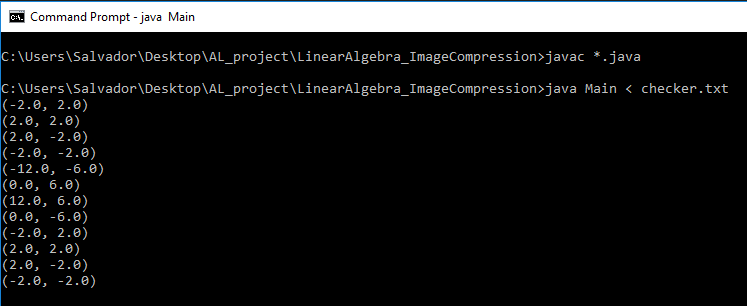
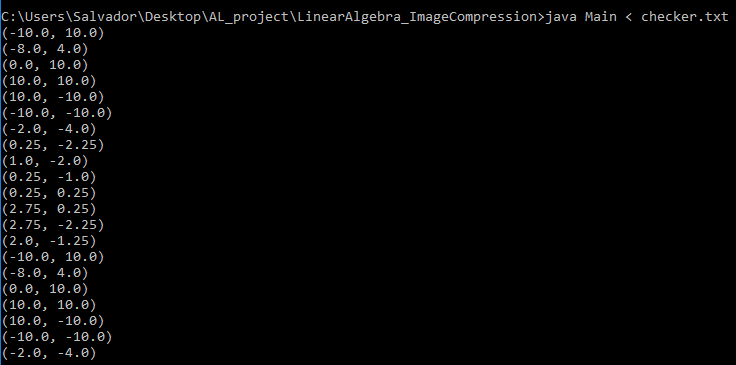
final version

Changed region(s): [[0.0, 0.0, 1.0, 1.0]]

diff --git a/Main.java b/Main.java
@@ -18,9 +18,9 @@ public class Main{
 	private static double[] transformationValues = new double[TRANSFORMATION_TOTAL_VALUES]; //from a to f
 	private static Image compressedImage;
 	private static Image decompressedImage;
-	private static final int SIZE = 12;
-	private final static int DEFAULT_HEIGHT = 500;
-	private final static int DEFAULT_WIDTH = 500;
+	private static final int SIZE = 1;
+	private final static int DEFAULT_HEIGHT = 1000;
+	private final static int DEFAULT_WIDTH = 1000;
 
 	public static void readPoints(){
 
@@ -29,8 +29,10 @@ public class Main{
 
 		for(int i = 0; i < pointsAmount; i++){
 
-			x = sc.nextDouble();
-			y = sc.nextDouble();
+			String line = sc.nextLine();
+			String[] totN = line.split(" ");
+			x = Integer.parseInt(totN[0]);
+			y = Integer.parseInt(totN[1]);
 
 			totalPoints.add(new Point(x, y));
 		}
@@ -43,7 +45,7 @@ public class Main{
 		for(int i = 0; i < transformationsAmount; i++){
 
 			for(int j = 0; j < TRANSFORMATION_TOTAL_VALUES; j++)
-				transformationValues[j] = sc.nextDouble();
+				transformationValues[j] = Double.parseDouble(sc.nextLine());
 
 			myIFS.addTransformation(new Transformation(transformationValues, true));
 		}
@@ -51,7 +53,7 @@ public class Main{
 
 	public static void main(String[] args){
 
-		pointsAmount = sc.nextInt();
+		pointsAmount = Integer.parseInt(sc.nextLine());
 
 		readPoints();
 
@@ -62,17 +64,24 @@ public class Main{
 
 		originalImg = new Image(totalPoints, frame);
 		originalImg.plot(Color.BLACK, SIZE);
+		System.out.println("Coordinates of the original image:");
 		originalImg.displayPoints();
 
-		transformationsAmount = sc.nextInt();
+		System.out.println();
+
+		transformationsAmount = Integer.parseInt(sc.nextLine());
 		readTransformations(frame);
 
 		compressedImage = myIFS.executeTransformations(originalImg, 1);
 		compressedImage.plot(Color.BLUE, SIZE);
+		System.out.println("Coordinates of the compressed image:");
 		compressedImage.displayPoints();
+
+		System.out.println();
 
 		decompressedImage = myIFS.executeTransformations(compressedImage, -1);
 		decompressedImage.plot(Color.RED, SIZE);
+		System.out.println("Coordinates of the decompressed image:");
 		decompressedImage.displayPoints();
 	}
 }
